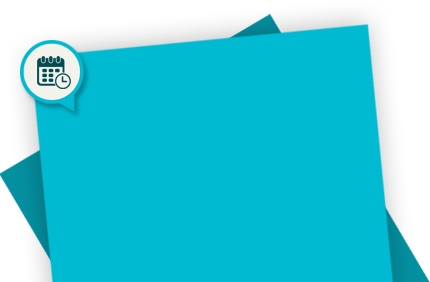
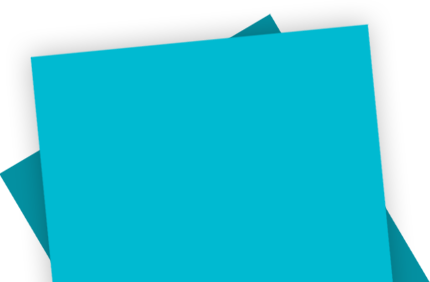
divers

Changed region(s): [[0.0302, 0.1418, 0.2116, 0.4255]]

diff --git a/style.css b/style.css
@@ -401,13 +401,17 @@ header.site-header *{
 }
 #top .countdown-event-widget{
 	position:absolute;
+	top:8.8em;
 	bottom:0;
 	right:25px;
 	float:right;
-	padding:80px 60px 0 100px;
-	width:30%;
+	padding:6% 4% 0 7%;
+	width:35%;
 	background:url(images/fond-event-home.png) left bottom no-repeat;
-	background-size:100% auto;
+	background-size:100% 95%;
+}
+.logged-in #top .countdown-event-widget{
+	top:6.8em;
 }
 .countdown-event-widget::before{
 	content:"";
@@ -419,7 +423,9 @@ header.site-header *{
 	background:url(images/sprite.png) -165px -83px no-repeat;
 }
 #top .countdown-event-widget::before{
-	display:none;
+	top:15%;
+	left:5%;
+	background:url(images/sprite.png) -247px -83px no-repeat;
 }
 .countdown-event-widget .compteur{
     font-family: 'blanchcaps';
@@ -741,16 +747,20 @@ article.type-post .entry-infos span{
 	margin:0!important;
 	line-height:1;
 }
-.category  article.type-post:hover .entry-infos a{
+.category  article.type-post:hover .entry-infos a,
+.home  article.type-post:hover .entry-infos a{
 	color:#1a2930;
 }
-.category  article.type-post.category-news:hover .entry-infos a{
+.category  article.type-post.category-news:hover .entry-infos a,
+.home  article.type-post.category-news:hover .entry-infos a{
 	color:#65771c;
 }
-.category  article.type-post.category-events:hover .entry-infos a{
+.category  article.type-post.category-events:hover .entry-infos a,
+.home  article.type-post.category-events:hover .entry-infos a{
 	color:#034a53;
 }
-.category  article.type-post.category-jobs:hover .entry-infos a{
+.category  article.type-post.category-jobs:hover .entry-infos a,
+.home  article.type-post.category-jobs:hover .entry-infos a{
 	color:#761414;
 }
 article.type-post .entry-infos .posted-on{
@@ -977,6 +987,13 @@ nav.navigation .meta-nav{
 nav.navigation .post-title{
 	position:absolute;
 	top:-500000px;
+}
+
+/*
+  	POUR LA HOME
+*/
+.home nav.navigation{
+	clear:both;
 }
 
 /*
@@ -1511,6 +1528,7 @@ footer.site-footer{
 footer.site-footer section.sidebar{
 	float:none;
 	margin:0;
+	padding:0;
 	width:100%;
 	overflow:hidden;
 }
@@ -1580,28 +1598,121 @@ footer.site-footer section.sidebar{
 	TWITTER & FACEBOOK
 */
 .widget.PI_SimpleTwitterTweets,
-#text-6{
+.widget_rfb_widget{
 	margin:0 0 0 65px;
 	width:20%;
 	font-size:1.2em;
 	color:#b7b7b7;
 }
-.widget.PI_SimpleTwitterTweets ul li + li{
-	margin:5px 0 0;
+.widget.PI_SimpleTwitterTweets ul li + li,
+.widget_rfb_widget .rfbp-post{
+	margin:8px 0 0;
 }
-.widget.PI_SimpleTwitterTweets ul li a{
+.widget.PI_SimpleTwitterTweets ul li a,
+.widget_rfb_widget .rfbp-post h4 a,
+.widget_rfb_widget .rfbp-post p a{
 	color:#b7b7b7;
 }
 .widget.PI_SimpleTwitterTweets ul li a:hover,
-.widget.PI_SimpleTwitterTweets ul li a:focus{
+.widget.PI_SimpleTwitterTweets ul li a:focus,
+.widget_rfb_widget .rfbp-post h4 a:hover,
+.widget_rfb_widget .rfbp-post h4 a:focus,
+.widget_rfb_widget .rfbp-post p a:hover,
+.widget_rfb_widget .rfbp-post p a:focus{
 	color:#fff;
+}
+.widget_rfb_widget .rfbp-post h4{
+	margin:0;
+	font-family:"open sans";
+	font-size:1em;
+	line-height:1.2;
+}
+.widget_rfb_widget .rfbp-post p{
+	margin:0;
+	line-height:1.2;
+}
+.widget_rfb_widget .rfbp-post p .rfbp-timestamp{
+	font-style:italic;
+}
+.widget_rfb_widget .rfbp-post p img{
+	display:inline-block;
+	margin:3px 0;
 }
 
 /*
 	FLICKR
 */
-.widget.widget_flickr{
+#text-6{
 	float:right;
 	width:40%;
 	color:#b7b7b7;
+	font-size:1.2em;
 }
+
+
+
+
+
+
+
+
+
+
+
+/*------------------------------------------------------------------------------------------------------------*/
+/*------------------------------------------------------------------------------------------------------------*/
+/*------------------------------------------------------------------------------------------------------------*/
+
+
+
+/*------------------------------------------------------------------------------------------------------------*/
+/*
+	= AJUSTEMENT TAILLE D'ECRAN
+*/
+/*------------------------------------------------------------------------------------------------------------*/
+
+@media only screen and (max-width: 1240px){
+	/* FOOTER */
+	#text-6{
+		width:35%;
+	}
+}
+@media only screen and (max-width: 1024px){
+	/* STRUCTURE */
+	header.site-header,
+	#content,
+	footer.site-footer{
+		padding-left:30px;
+		padding-right:30px;
+	}
+	#site-header-menu{
+		right:30px;
+	}
+	#primary{
+		width:60%;
+	}
+	#secondary{
+		padding:0;
+		width:35%;
+	}
+}
+@media only screen and (max-width: 800px){
+	/* FOOTER */
+	.widget.PI_SimpleTwitterTweets,
+	.widget_rfb_widget{
+		width:35%;
+	}
+	#text-6{
+		clear:both;
+		float:none;
+		margin:0 0 0 110px;
+		padding:50px 0 0;
+		width:100%;
+	}
+}
+
+
+
+
+
+
